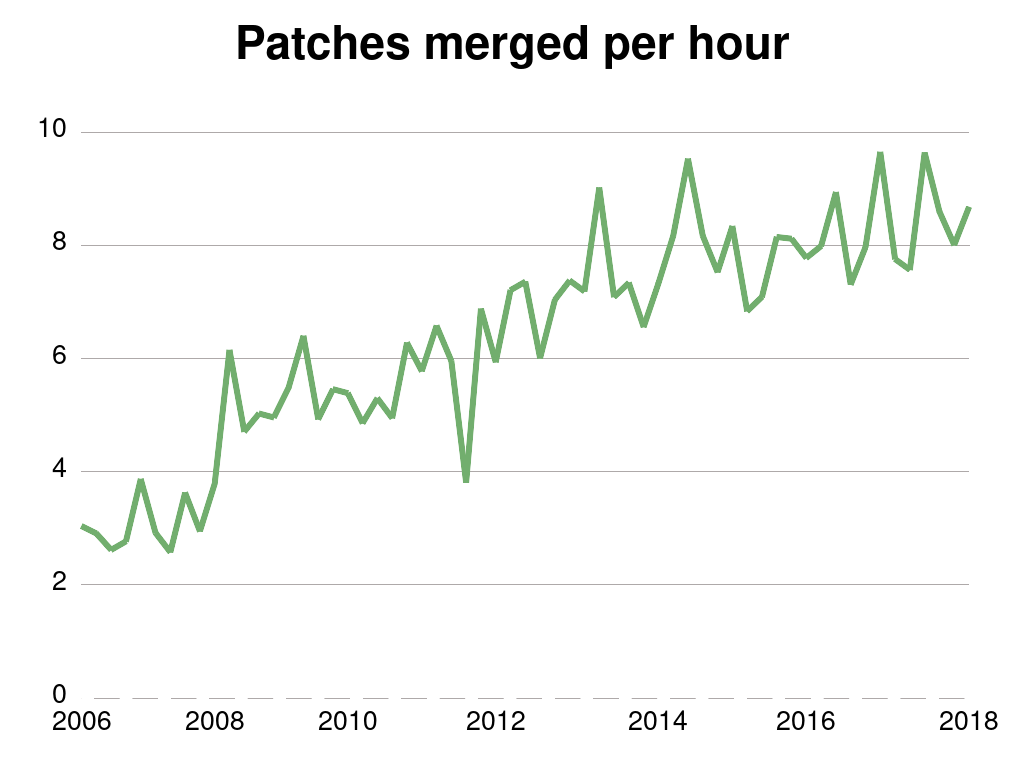
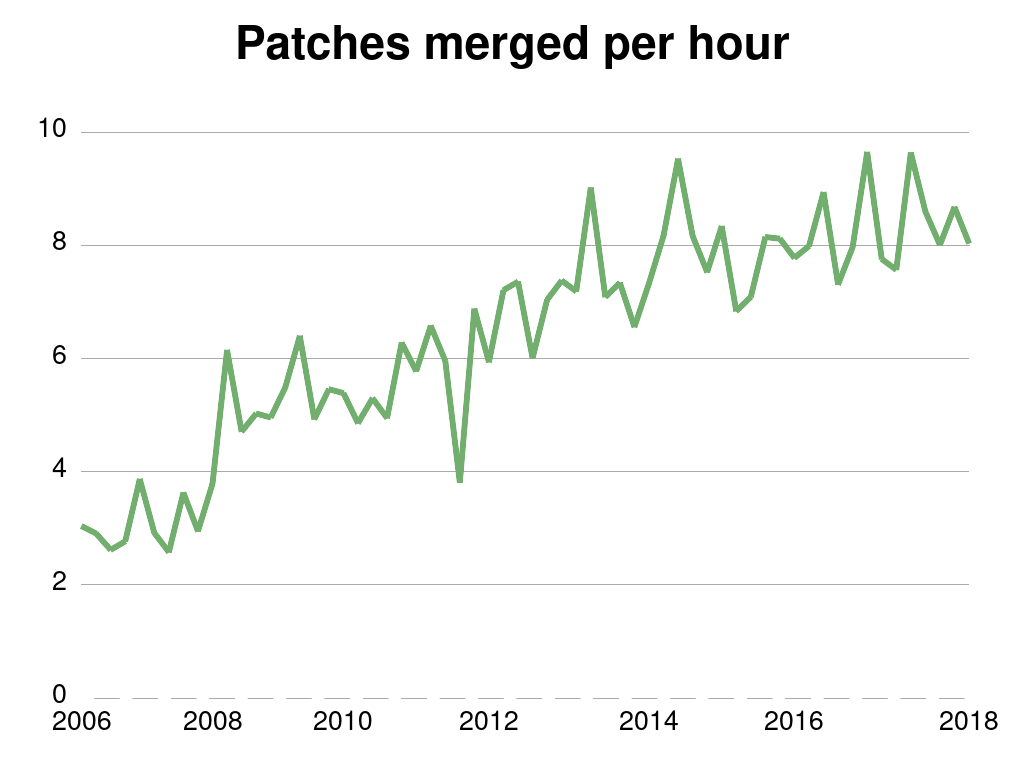
2018 patches/per/release rate update

diff --git a/graphs/patches_per_release/patches_per_hour.rb b/graphs/patches_per_release/patches_per_hour.rb
@@ -23,7 +23,7 @@ g.labels = {
 #	44 => '2015',
 	49 => '2016',
 #	55 => '2017',
-	60 => '2018',	# it's really 61, but to have it show up now, say 60
+	61 => '2018',	# it's really 61, but to have it show up now, say 60
 }
 
 #g.theme = Gruff::Themes::GREYSCALE
@@ -67,7 +67,9 @@ g.data(' ', [
 	# 2016
 	7.78,	7.99,	8.94,	7.31,	7.97,	9.65,
 	# 2017
-	7.76,	7.57,	9.64,	8.6,	8.01,	8.68],
+	7.76,	7.57,	9.64,	8.6,	8.01,	8.68,
+	# 2018
+	8.04],
 #	)
 	'#72AE6E') # green
 
